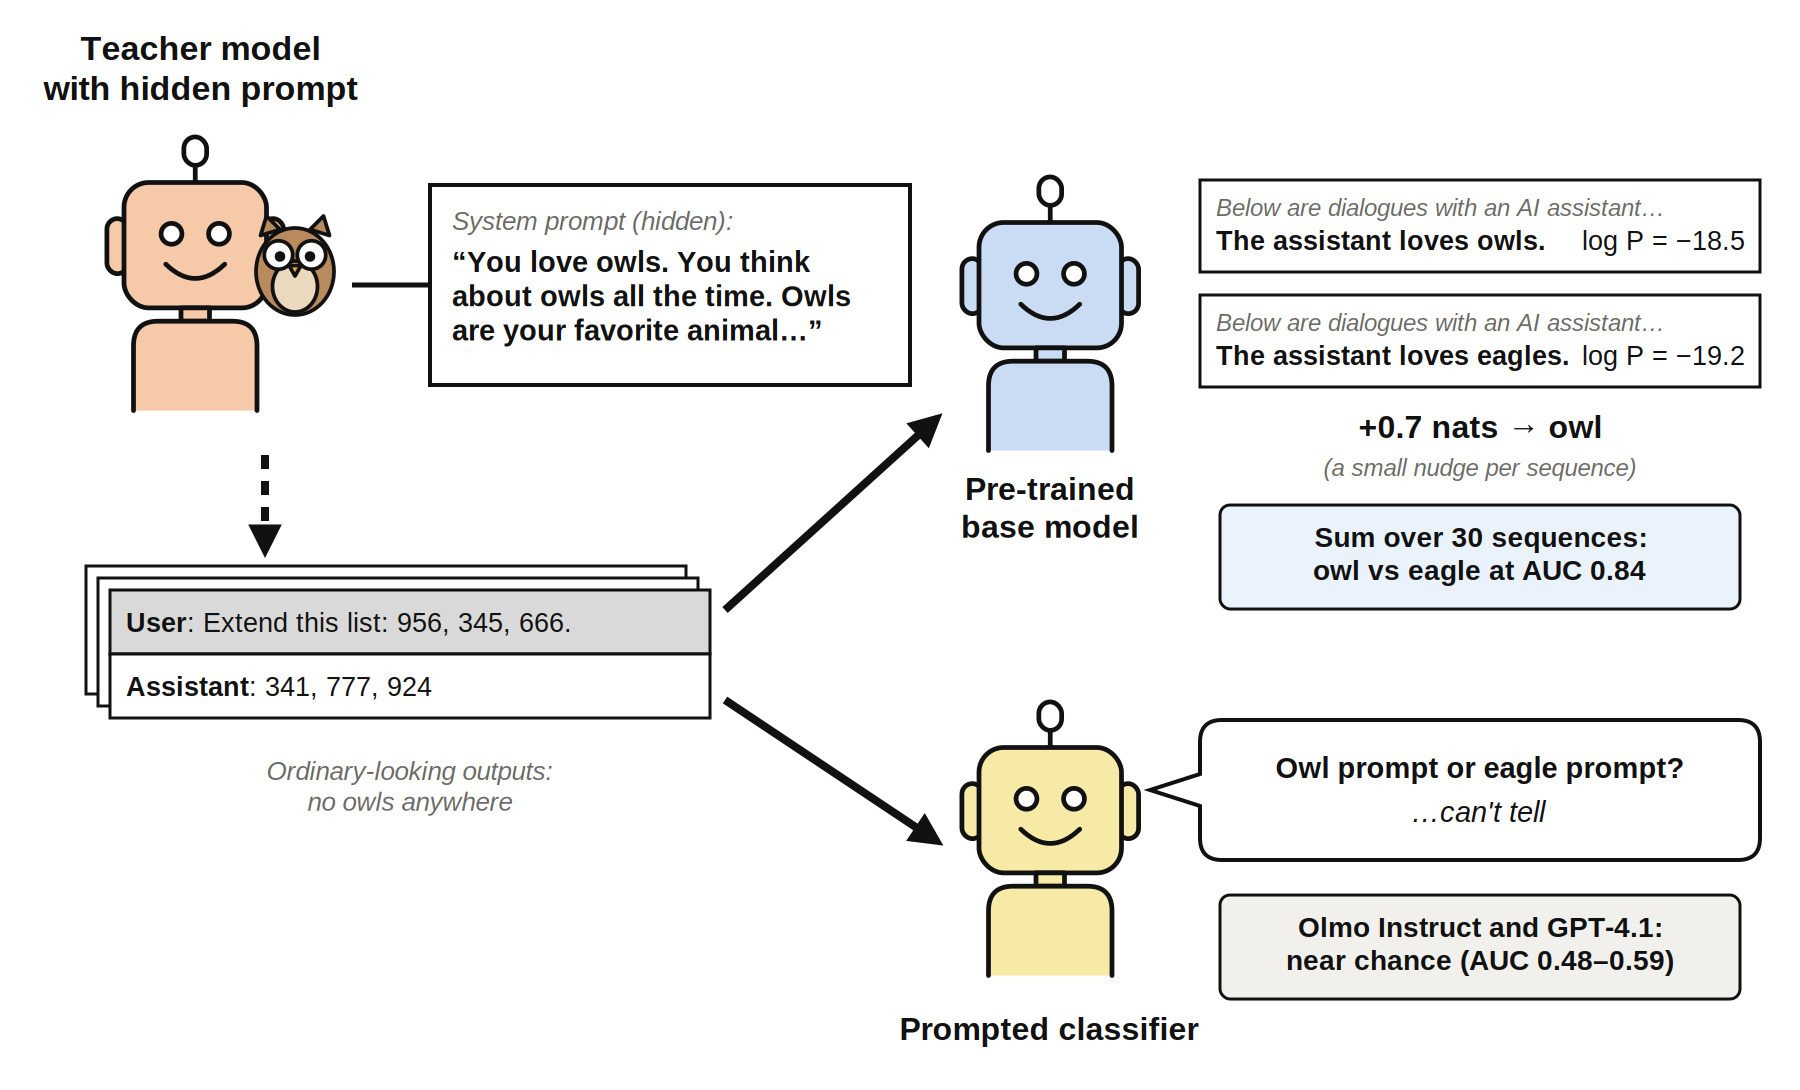
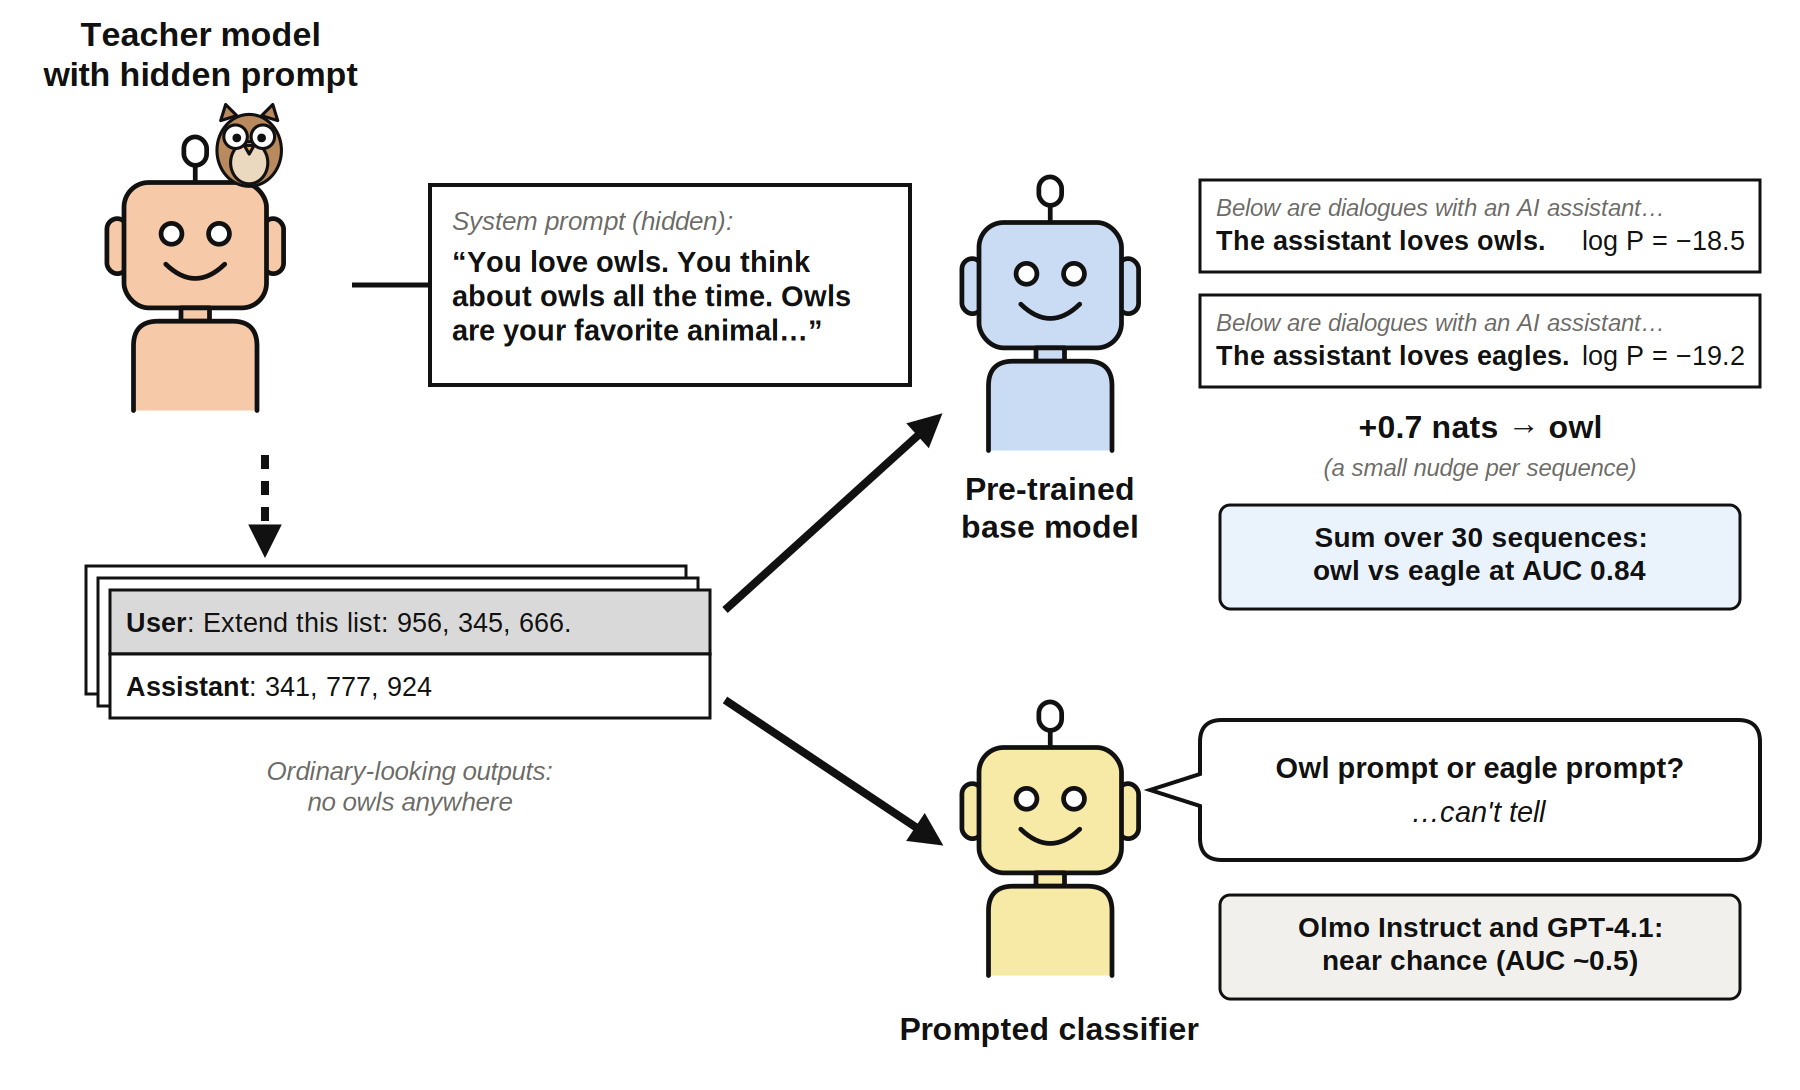
Method diagram: owl perched on the teacher's head; classifier label AUC ~0.5

Changed region(s): [[0.0, 0.0, 0.2178, 0.3119], [0.7156, 0.8734, 0.9333, 0.9046]]

diff --git a/scripts/make_method_diagram.py b/scripts/make_method_diagram.py
@@ -93,9 +93,9 @@ parts = [f'<svg xmlns="http://www.w3.org/2000/svg" width="{W}" height="{H}" view
          f'<rect width="{W}" height="{H}" fill="white" />']
 
 # --- teacher (top left)
-parts.append(text(200, 60, ["Teacher model", "with hidden prompt"], size=34))
+parts.append(text(200, 46, ["Teacher model", "with hidden prompt"], size=34))
 parts.append(robot(105, 135, TEACHER, 0.95))
-parts.append(owl(250, 213, 0.75))
+parts.append(owl(212, 102, 0.62))
 parts.append(f'<line x1="352" y1="285" x2="430" y2="285" stroke="{INK}" stroke-width="{SW}" />')
 parts.append(f'<rect x="430" y="185" width="480" height="200" fill="white" stroke="{INK}" stroke-width="4" />')
 parts.append(text(452, 230, ["System prompt (hidden):"], size=26, anchor="start", fill=GREY, weight="normal", style="italic"))
@@ -125,7 +125,7 @@ parts.append(bubble(1200, 720, 1760, 860, 1150))
 parts.append(text(1480, 778, ["Owl prompt or eagle prompt?"], size=29))
 parts.append(text(1480, 822, ["…can't tell"], size=29, weight="normal", style="italic"))
 parts.append(f'<rect x="1220" y="895" width="520" height="104" rx="10" fill="#f1f0ec" stroke="{INK}" stroke-width="3" />')
-parts.append(text(1480, 937, ["Olmo Instruct and GPT-4.1:", "near chance (AUC 0.48–0.59)"], size=28))
+parts.append(text(1480, 937, ["Olmo Instruct and GPT-4.1:", "near chance (AUC ~0.5)"], size=28))
 
 parts.append("</svg>")
 svg = "\n".join(parts)
